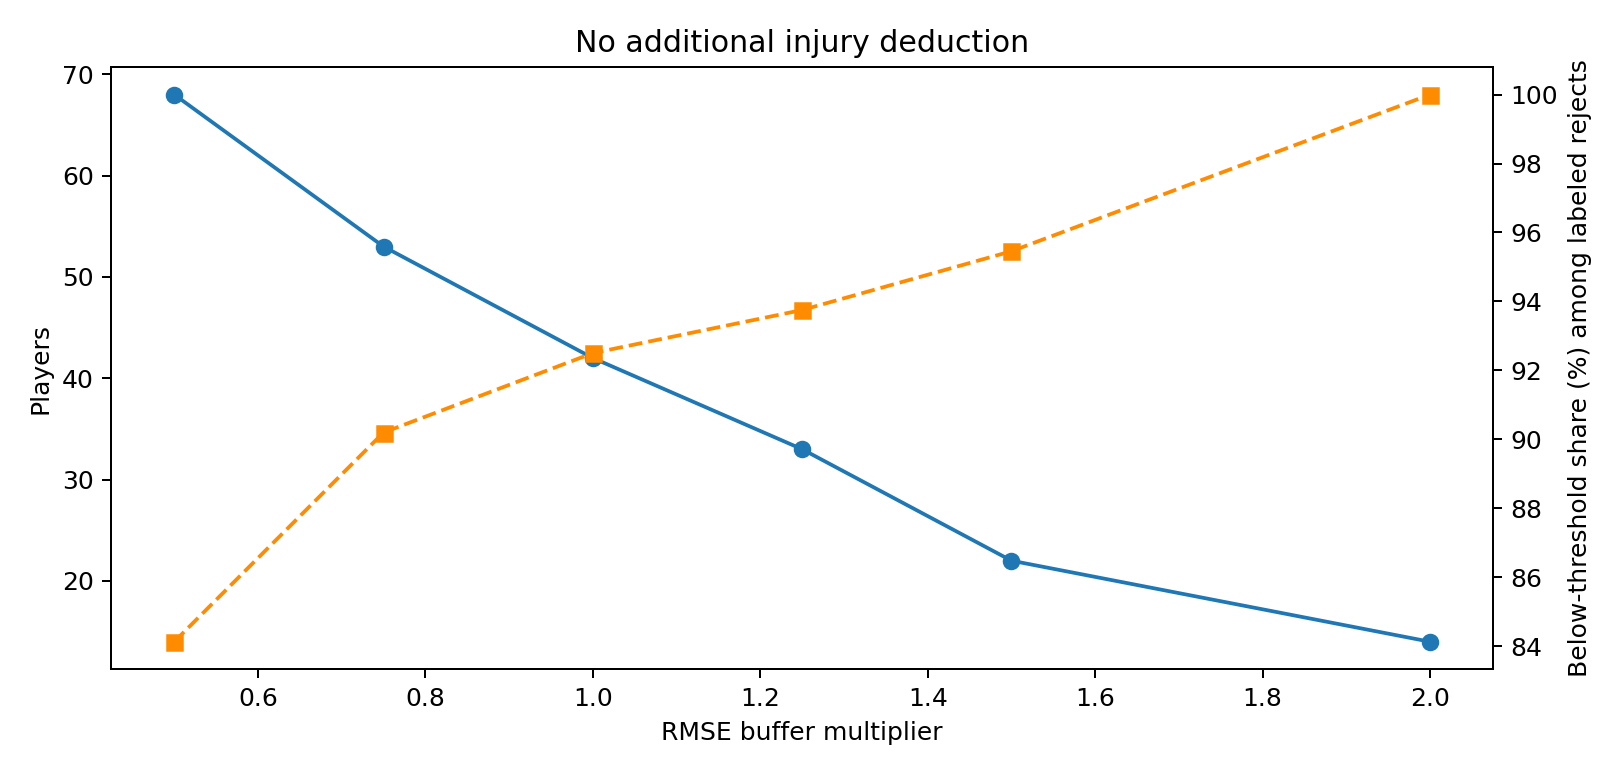
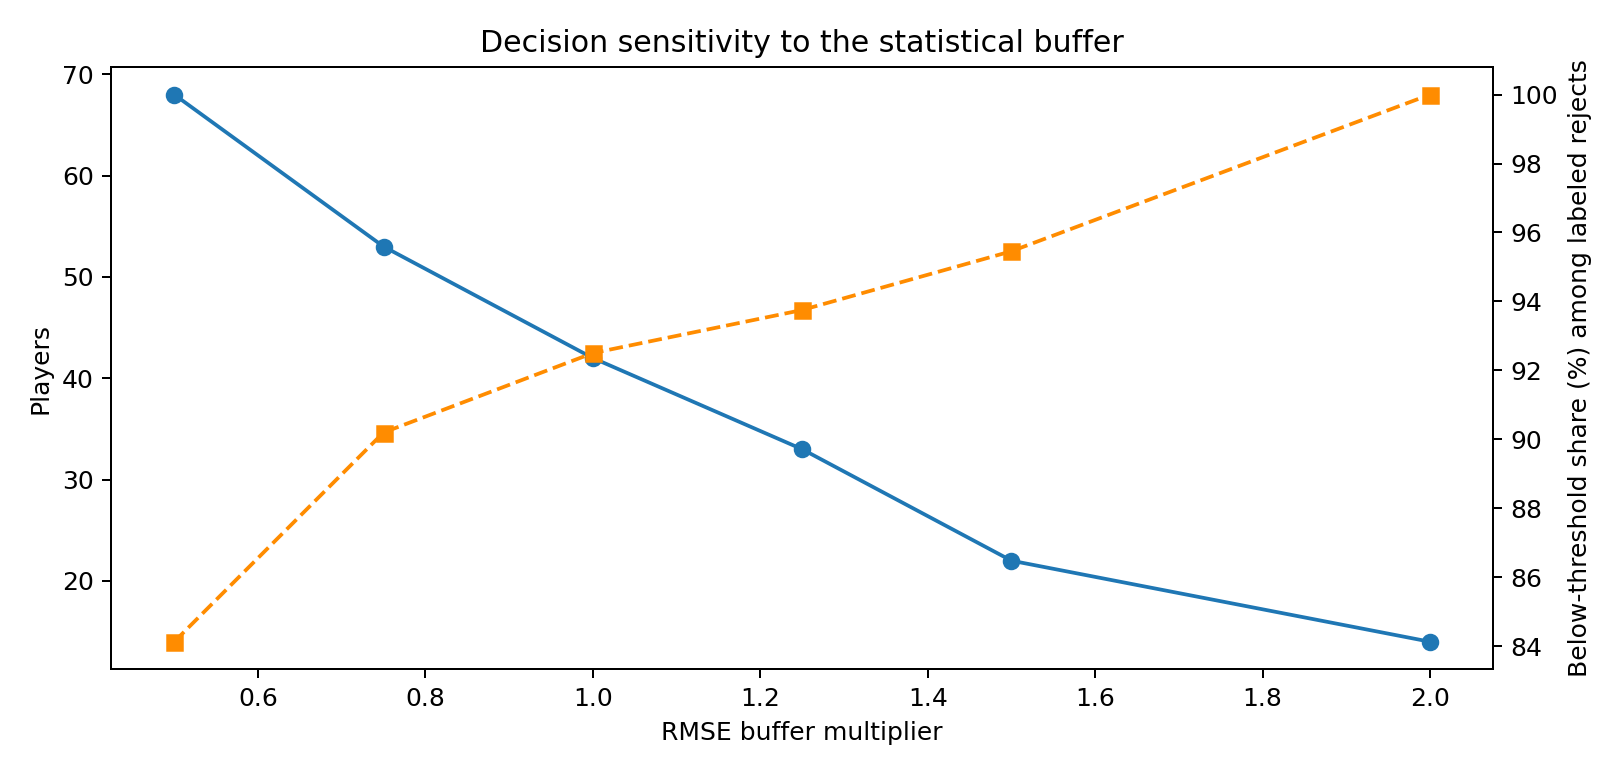
Present current research logic and move injury trials to discussion

Changed region(s): [[0.2778, 0.031, 0.7099, 0.093]]

diff --git a/scripts/research_no_injury.py b/scripts/research_no_injury.py
@@ -79,20 +79,20 @@ for name,frame in [('decisions',p),('declined',red),('yearly',yearly),('validati
 (OUT/'summary.json').write_text(json.dumps(summary,ensure_ascii=False,indent=2),encoding='utf-8')
 plt.rcParams.update({'font.family':'DejaVu Sans','font.size':10})
 fig,ax=plt.subplots(figsize=(9,4.3));ax.plot(sensitivity.multiplier,sensitivity.red,'o-',label='Stop-loss count');ax.set_xlabel('RMSE buffer multiplier');ax.set_ylabel('Players')
-other=ax.twinx();other.plot(sensitivity.multiplier,100*sensitivity.hit_rate,'s--',color='darkorange');other.set_ylabel('Below-threshold share (%) among labeled rejects');ax.set_title('No additional injury deduction');fig.tight_layout();fig.savefig(OUT/'sensitivity.png',dpi=180);plt.close(fig)
+other=ax.twinx();other.plot(sensitivity.multiplier,100*sensitivity.hit_rate,'s--',color='darkorange');other.set_ylabel('Below-threshold share (%) among labeled rejects');ax.set_title('Decision sensitivity to the statistical buffer');fig.tight_layout();fig.savefig(OUT/'sensitivity.png',dpi=180);plt.close(fig)
 fig,ax=plt.subplots(figsize=(9,4.3));ax.bar(validation.year,validation.below,label='Below WS threshold');ax.bar(validation.year,validation.red-validation.below-validation.no_year3,bottom=validation.below,label='At/above threshold');ax.bar(validation.year,validation.no_year3,bottom=validation.red-validation.no_year3,label='No year-3 record');ax.set_xticks(validation.year);ax.set_ylabel('Rejected players');ax.legend();fig.tight_layout();fig.savefig(OUT/'validation.png',dpi=180);plt.close(fig)
 for year in [2023]:
     q=p[p.year_start.eq(year)];fig,ax=plt.subplots(figsize=(10,6));ax.scatter(q.Est_Cost_Percent,q.Pred_WS,c=q.color,s=65)
     for row in q.itertuples():ax.annotate(row.Player,(row.Est_Cost_Percent,row.Pred_WS),fontsize=6,xytext=(3,3),textcoords='offset points')
-    ax.set_xlabel('Estimated contract cost (% of salary cap)');ax.set_ylabel('Predicted year-3 WS');ax.set_title(f'{year} cohort: no additional injury deduction');fig.tight_layout();fig.savefig(OUT/f'decision_{year}.png',dpi=180);plt.close(fig)
+    ax.set_xlabel('Estimated contract cost (% of salary cap)');ax.set_ylabel('Predicted year-3 WS');ax.set_title(f'{year} cohort: contract cost and predicted production');fig.tight_layout();fig.savefig(OUT/f'decision_{year}.png',dpi=180);plt.close(fig)
 # Updated workflow figure replaces the old injury-dependent diagram.
 fig,ax=plt.subplots(figsize=(8,5));ax.axis('off')
-texts=['First two playing seasons\n46 fixed model features','Existing Lasso predictions\nYear-3 Win Shares','Contract value minus cost\nNo injury deduction','Waterfall decision\nFirst-round cohort SPI PR70','329 players\n226 blue / 70 green / 33 red']
+texts=['First two playing seasons\n46 model features','Lasso predictions\nYear-3 Win Shares','Contract value minus cost\nANS = S - K','Waterfall decision\nFirst-round cohort SPI PR70','329 players\n226 blue / 70 green / 33 red']
 positions=[(.25,.85),(.75,.85),(.75,.50),(.25,.50),(.25,.16)]
 for txt,(x,y) in zip(texts,positions):
     ax.text(x,y,txt,ha='center',va='center',fontsize=13,bbox=dict(boxstyle='round,pad=.6',facecolor='#e8f1f5',edgecolor='#264653'))
 for start,end in [((.45,.85),(.55,.85)),((.75,.73),(.75,.62)),((.55,.5),(.45,.5)),((.25,.38),(.25,.28))]:
     ax.annotate('',xy=end,xytext=start,arrowprops=dict(arrowstyle='->',lw=1.5))
-ax.text(.74,.16,'Injury evidence:\nsupplementary checks only',ha='center',fontsize=12)
+ax.text(.74,.16,'Validation and sensitivity\nObserved year-3 outcomes',ha='center',fontsize=12)
 fig.tight_layout();fig.savefig(OUT/'workflow.png',dpi=180);plt.close(fig)
 print(json.dumps(summary,ensure_ascii=False,indent=2));print(sensitivity.to_string(index=False))

diff --git a/README.md b/README.md
@@ -11,12 +11,12 @@
 本專題把球員視為一項金融資產，結合
 
 - **機器學習**：用新秀前兩年的表現預測第三年產能（Win Shares）
-- **NLP 輿情分析**：把新聞情緒與報導量轉化為商業聲量指數；傷病扣分僅保留為補充試验，不進入主分析
+- **NLP 輿情分析**：把新聞情緒與報導量轉化為商業聲量指數
 - **實質選擇權定價（Real Options Valuation）**：把「是否執行球隊選擇權」當成一個選擇權定價問題
 
 打造一套具備多層防護網的自動化決策系統，並串接 Claude LLM 產出球探報告，最終以真實歷史案例回測系統的判斷準確率。
 
-> **研究主分析更新（2026-09-30）**：移除額外傷病扣分，維持原 WS 模型、46 項特徵、RMSE 及其他規則。329 人結果為 **226 藍／70 綠／33 紅**。以 `scripts/research_no_injury.py` 和 `results/no_injury/` 為新版研究依據；舊 notebooks、驗證 CSV 與 Streamlit 屬歷史實作，本次未同步修改網站。正式模型沒有獨立的出賽場次欄位，不宣稱已完整涵蓋健康風險。
+> **研究分析入口**：以 46 項前兩季特徵預測第三年 WS，換算預期價值並比較合約成本，再透過統計容錯、機會成本及商業聲量條件產生分類。329 人結果為 **226 藍／70 綠／33 紅**。研究程式與完整輸出位於 `scripts/research_no_injury.py` 和 `results/no_injury/`；網站展示與研究分析的適用範圍請見下方說明。
 
 ---
 
@@ -68,13 +68,13 @@ Kaggle 歷史數據 ─┐
 
 ## 一、資料處理與 NLP 輿情分析 Pipeline
 
-新聞情緒與報導量用於補充場外聲量資訊，對應 `notebooks/data_pipeline/`。額外傷病資料因完整性不足，已不納入主分析扣分：
+新聞情緒與報導量用於補充場外聲量資訊，對應 `notebooks/data_pipeline/`：
 
 | Notebook | 功能 |
 | --- | --- |
 | `build_feature_dataset.ipynb` | 整合 Kaggle 歷年數據、選秀順位、大學數據，做名稱標準化、缺失值處理與新秀年特徵抽取，產出 `NBA_Normalized_Final.csv` / `NBA_Player_Final_Master_Features.csv` |
 | `scrape_player_news.ipynb` | 自建反封鎖新聞爬蟲 + TF-IDF 去重，產出各年份 `NBA_News_{year}_Full_Cohort.csv` |
-| `sentiment_analysis.ipynb` | 用 Transformer 情感模型為新聞打分並聚合 `Star_Power_Index`；歷史傷病欄位不再供主分析扣分 |
+| `sentiment_analysis.ipynb` | 用 Transformer 情感模型為新聞打分並聚合 `Star_Power_Index` |
 
 **擬真抗封鎖爬蟲設計**：
 - 捨棄傳統 Selenium，改用 `undetected-chromedriver` 並移除硬編碼版本號，動態適應本機 Chrome 版本
@@ -85,7 +85,7 @@ Kaggle 歷史數據 ─┐
 **文本清洗與量化**：
 - `langdetect` 過濾非英語雜訊
 - `TfidfVectorizer` + Cosine Similarity（門檻 0.85）去除內容農場重複轉載
-- 主分析使用 `Star_Power_Index`；`Worst_Injury_History` 保留作歷史資料，不將缺漏或 0 解讀為健康。
+- 使用 `Star_Power_Index` 表示相對商業聲量，並以同梯研究首輪樣本的第 70 百分位數建立門檻。
 
 ---
 
@@ -134,8 +134,8 @@ $$Marginal\ Value\ per\ WS = \frac{Salary\ Cap \times Team\ Count \times BRI\ Fa
 
 $$Pred\ Salary\ Share\ Percent = \left[ \frac{\widehat{WS} \times Marginal\ Value\ per\ WS}{Salary\ Cap} \right] \times 100\%$$
 
-#### 2. 不另施加傷病折價
-傷病紀錄不完整，补充分析中的改善又集中於少數個案，因此主分析移除額外扣分。此選擇不表示健康資訊無用，也不表示移除後回測更好。既有模型特徵保持不變。
+#### 2. 預期產能價值
+預期價值直接由第三年 WS 預測及財務換算係數形成，並使用相同薪資帽單位與合約成本比較。程式中的調整後價值欄位對應此預期價值：
 
 $$Adjusted\ Pred\ Salary\ Percent = Pred\ Salary\ Share\ Percent$$
 
@@ -147,14 +147,14 @@ $$Net\ Value\ Surplus = Adjusted\ Pred\ Salary\ Percent - Est\ Cost\ Percent$$
 #### 4. 動態機會成本及格線
 高順位新秀成本高，放走他釋出的薪資空間能在自由市場買到更多替代資產，因此續約及格線需動態調高（底薪替代成本約 1.8% 薪資帽、保底產能約 0.64 WS）：
 
-令 $V = 30 \times BRI / 1230 \times 100$，則 $Dynamic\ Truth\ WS = \max(Est\ Cost\ Percent, 1.8) / V$。本次保留既有預測表的門檻值。
+令 $V = 30 \times BRI / 1230 \times 100$，則 $Dynamic\ Truth\ WS = \max(Est\ Cost\ Percent, 1.8) / V$。
 
 #### 5. 多層瀑布流決策矩陣
 單純用數值高低做二分判定容易被統計噪聲誤導，因此系統設計了由上而下的多層防護網（實質選擇權概念），對應 `apply_waterfall()`：
 
 | 關卡 | 判定條件 | 決策說明 |
 | :--- | :--- | :--- |
-| 🔵 絕對獲利區 | `Net_Value_Surplus > 0` | 預期價值高於合約成本，不另扣傷病 |
+| 🔵 絕對獲利區 | `Net_Value_Surplus > 0` | 預期價值高於合約成本 |
 | 🟢 統計容錯區 | 虧損 ≥ `-1.25 × RMSE` | 落於模型統計誤差內（1.25 倍為買權時間價值），避免因誤差錯殺潛力股 |
 | 🟢 動態機會成本救贖 | $\widehat{WS} \ge Dynamic\ Truth\ WS$ | 場上產能仍優於自由市場替代方案，留下他虧損反而比放走划算 |
 | 🟢 商業聲量救場 | 同梯研究首輪樣本 SPI ≥ PR70，且淨盈餘 ≥ `-1.5 × (1.25 × RMSE)` | 場外聲量輔助判斷；尚未用真實營收驗證 |
@@ -162,7 +162,7 @@ $$Net\ Value\ Surplus = Adjusted\ Pred\ Salary\ Percent - Est\ Cost\ Percent$$
 
 決策結果視覺化範例（X 軸：合約成本佔比，Y 軸：預測 WS）：
 
-不扣傷病時第三層條件蘊含淨盈餘非負，已被前兩層涵蓋，不會新增留用者。原 RMSE（WS）直接與薪資帽百分比比較的單位問題亦保留為限制，本次未變更以隔離傷病扣分影響。
+依目前公式，第三層條件蘊含淨盈餘非負，已被前兩層涵蓋，不會新增留用者。RMSE（WS）直接與薪資帽百分比比較有單位不一致的限制；容錯尺度應視為決策規則設定，而非經校準的財務預測區間。
 
 ![Contract Decision 2023](results/no_injury/decision_2023.png)
 
@@ -170,7 +170,7 @@ $$Net\ Value\ Surplus = Adjusted\ Pred\ Salary\ Percent - Est\ Cost\ Percent$$
 
 ## 四、歷史回測驗證結果
 
-新版研究涵蓋 329 名首輪球員，其中 306 人有第三年 WS 可評分；其餘 23 人仍分類但不補成 0。以 WS 是否達動態門檻評分，不等同球團實際續約結果。藍、綠均視為續留，紅視為放棄。完整結果見 `results/no_injury/`：
+研究涵蓋 329 名首輪球員，其中 306 人有第三年 WS 可評分；其餘 23 人仍分類但不補成 0。以 WS 是否達動態門檻評分，不等同球團實際續約結果。藍、綠均視為續留，紅視為放棄。完整結果見 `results/no_injury/`：
 
 | 指標 | 結果 |
 | --- | --- |
@@ -179,13 +179,13 @@ $$Net\ Value\ Surplus = Adjusted\ Pred\ Salary\ Percent - Est\ Cost\ Percent$$
 | 止損名單無第三年紀錄 | 1 人，另列，不當作 WS = 0 |
 | 全體有標籤決策正確率 | 207／306 = 67.65% |
 | TP／FP／TN／FN | 177／97／30／2 |
-| 原訂評分 | 940（TP +10、FP −10、TN +5、FN −5） |
-| 既有後續處置標註 | 確認止損 19、交易 8、可能誤判 6；本次未重新核驗全部外部事件 |
+| 決策評分 | 940（TP +10、FP −10、TN +5、FN −5） |
+| 球團後續處置標註 | 確認止損 19、交易 8、可能誤判 6；外部事件尚未完成全面核驗 |
 | 排除交易後處置比例 | 19／25 = 76.0%，不等同產能命中率 |
 | 處置分組淨盈餘代理量 | +58.25 薪資帽百分點，非已實現財務利益 |
 | 紅區有標籤預測誤差 | MAE 0.847、平均偏差 −0.101 |
 
-後期 140 人不扣傷病得 470 分；補查最低傷病計數下固定 0.8 得 485 分，但改善完全來自 Hunter 一人。移除该人或其 2020 梯次後優勢歸零，不能宣稱穩定改善，也不能證明純屬偶然。傷病試驗只作補充，不稱為最佳權重驗證。後期資料此前已檢視，且 WS 預測固定，不能宣稱全新盲測或完整模型的無洩漏時間外驗證。
+早期 166 人的決策正確率為 66.27%，後期 140 人為 69.29%。此分組用於觀察樣本差異；歷史預測與資料已經檢視，不能宣稱是全新盲測或完整模型的無洩漏時間外驗證。
 
 ![Validation Summary](results/no_injury/validation.png)
 
@@ -193,7 +193,7 @@ $$Net\ Value\ Surplus = Adjusted\ Pred\ Salary\ Percent - Est\ Cost\ Percent$$
 
 ## 五、Streamlit 決策系統網站
 
-`webapp/` 是原有 Streamlit 展示網站。依本次工作範圍，**網站未同步新版研究規則**；其聲量門檻母體亦與研究樣本不同，不以網站輸出替代上述研究結果。
+`webapp/` 是獨立的 Streamlit 展示網站，其實作規則與聲量門檻母體不完全等同研究分析，不以網站輸出替代上述研究結果。網站維持既有實作。
 
 - **📚 查詢歷史球員**：選擇選秀年份（2000–2023）與球員，直接顯示已算好的預測 WS、財務指標與決策燈號
 - **✍ 手動輸入新球員**：輸入任意球員的投籃 / 籃板助攻防守 / 進階數據與選秀順位，即時跑模型預測 + 財務決策
@@ -261,7 +261,7 @@ streamlit run app.py
 
 ```bash
 pip install -r requirements.txt
-python scripts/research_no_injury.py          # 新版研究主分析，產出 results/no_injury/
+python scripts/research_no_injury.py          # 研究主分析，產出 results/no_injury/
 ```
 
 ### 重跑資料處理 / 模型比較 notebook
@@ -272,7 +272,7 @@ python scripts/research_no_injury.py          # 新版研究主分析，產出 r
 
 - **樣本規模**：訓練樣本約 1,000 筆（2000–2023 年首輪新秀），模型 Test R² 落在 0.55–0.59，仍有一定預測誤差空間，因此決策引擎刻意用多層防護網（而非單一硬閾值）降低誤判成本。
 - **爬蟲穩定性**：新聞爬蟲依賴 Google 搜尋結果頁與抗封鎖機制，Chrome / 搜尋頁結構更動時需要調整爬蟲邏輯。
-- **回測樣本**：329 人均產生分類，306 人有 WS 標籤可評分；球團後續處置標註仍主要限於紅區。歷史 notebooks 與舊 CSV 保留，不當作新版結果。
-- **傷病與健康**：資料不完整，因此主分析不另扣傷病；46 項正式特徵沒有獨立的出賽場次欄位，不宣稱模型已完整反映健康。傷病補充試驗不證明穩定改善。
+- **回測樣本**：329 人均產生分類，306 人有 WS 標籤可評分；球團後續處置標註仍主要限於紅區。研究數值以 `results/no_injury/` 為準，其他 notebooks 與 CSV 是留存的實作紀錄。
+- **傷病資料的研究嘗試**：研究初期曾以單次缺賽超過 27 天的次數建立折價指標，但缺漏不能解讀為健康，未出賽也不必然是受傷。補查後仍無法認證完整傷病史，因此未採用於最終公式。固定 WS 預測並試算 0.8 權重時，早期 166 人有 4 人改善、2 人惡化；後期 140 人只改善 Hunter 一人。排除該人或其梯次後優勢歸零，不足以證明穩定效果，也不能證明純屬偶然。正式 46 項特徵沒有獨立出賽場次欄位，不宣稱已完整涵蓋健康風險。補充紀錄見 `results/injury_supplement/`。
 - 已完成：LLM 球探報告生成（原規劃的未來項目，已在 `webapp/report_generator.py` 實作）。
 - 規劃中：擴大回測涵蓋「建議執行」個案的實際 ROI 追蹤、支援更多聯盟（如 WNBA / 海外聯賽）的可轉移性測試。
